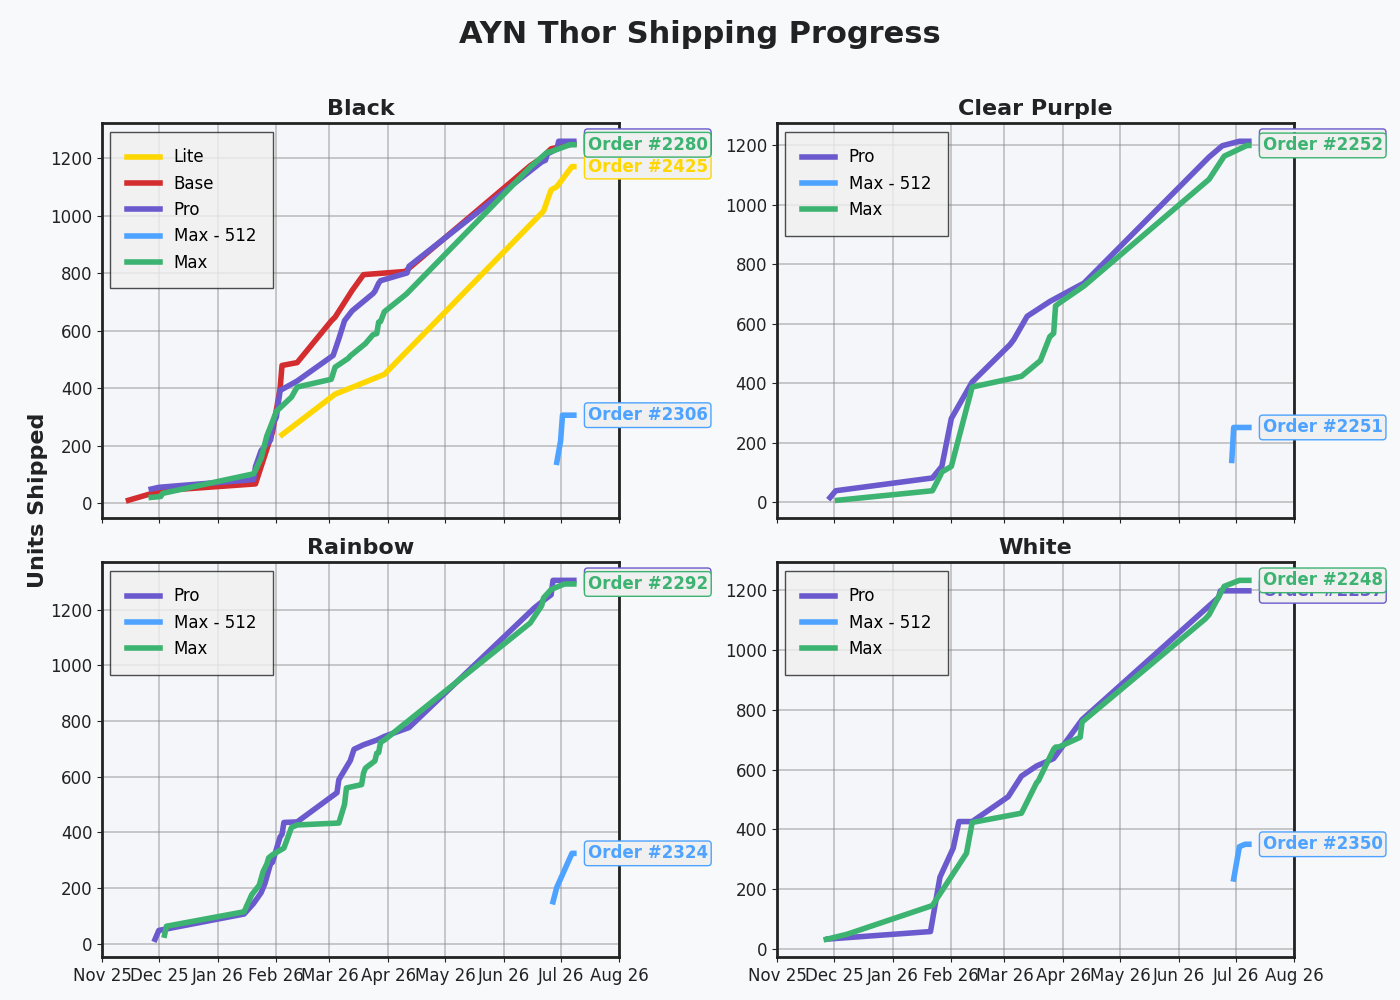
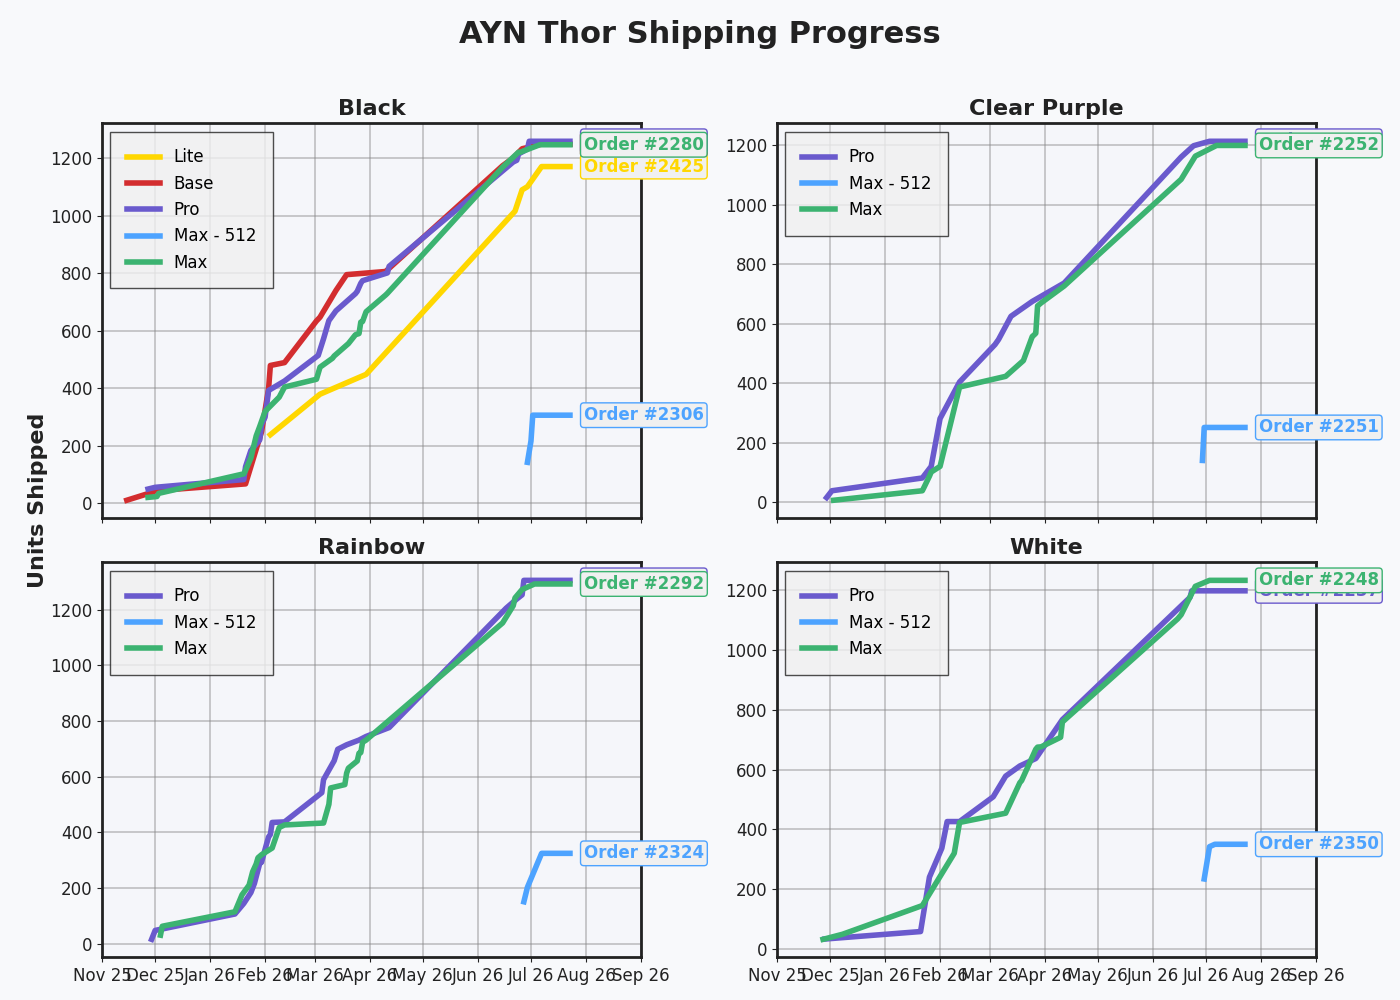
updating model to be less laggy

diff --git a/analysis.py b/analysis.py
@@ -136,6 +136,7 @@ def get_df(add_current_date_point=False):
     df["units_shipped"] = pd.to_numeric(df["units_shipped"], errors="coerce")
     df["color"] = df["color"].astype(str).str.strip().str.lower()
     df = df.sort_values(["make", "model", "color", "date"])
+    df["is_synthetic"] = False
     df["prev_end"] = df.groupby(["make", "model", "color"])["end"].shift(1)
     df["calc_units"] = df["end"] - df["prev_end"]
     df["calc_units"] = df["calc_units"].fillna(df["units_shipped"])
@@ -164,7 +165,8 @@ def get_df(add_current_date_point=False):
                 "units_shipped": 0,
                 "prev_end": row["max_end"],
                 "calc_units": 0,
-                "cumulative": row["last_cumulative"]
+                "cumulative": row["last_cumulative"],
+                "is_synthetic": True
             })
         if synthetic_rows:
             df = pd.concat([df, pd.DataFrame(synthetic_rows)], ignore_index=True)
@@ -282,12 +284,15 @@ def plot_black_models(output_path=None):
         if model_df.empty:
             ax.set_visible(False)
             continue
+        fit_df = model_df[~model_df["is_synthetic"]].copy()
+        if fit_df.empty:
+            fit_df = model_df.copy()
         ax.plot(
             model_df["date"],
             model_df["end"],
             color=MODEL_COLORS[model],
             linewidth=4,
-            zorder=3,
+            zorder=2,
             label="Shipped"
         )
         make = model_df["make"].iloc[0] if not model_df.empty else "Thor"
@@ -297,7 +302,7 @@ def plot_black_models(output_path=None):
         r2_str = ""
         slope_str = ""
         if model == "Max - 512":
-            latest = model_df.iloc[-1]
+            latest = fit_df.iloc[-1]
             dates, preds, coef = get_512_prediction_line(
                 models, make, "black", int(latest["end"]), latest["date"], trendline_max_date
             )
@@ -306,11 +311,11 @@ def plot_black_models(output_path=None):
                     dates, preds,
                     color=MODEL_COLORS[model],
                     linestyle=":", linewidth=2,
-                    label="Projected", zorder=2, alpha=0.8,
+                    label="Projected", zorder=4, alpha=0.95,
                 )
                 slope_str = f"{coef:.1f} units/day"
                 intercept_512 = int(latest["end"]) - coef * pd.Timestamp(latest["date"]).toordinal()
-                r2 = calculate_line_r2(model_df, coef, intercept_512)
+                r2 = calculate_line_r2(fit_df, coef, intercept_512)
                 if r2 is not None:
                     r2_str = f"$R^2$ = {r2:.3f}"
             else:
@@ -324,7 +329,7 @@ def plot_black_models(output_path=None):
                     dates, preds,
                     color=MODEL_COLORS[model],
                     linestyle=":", linewidth=2,
-                    label="Projected", zorder=2, alpha=0.8,
+                    label="Projected", zorder=4, alpha=0.95,
                 )
                 reg_key_norm = (normalize(make), normalize(model), normalize("black"))
                 normalized_to_actual = {
@@ -336,7 +341,7 @@ def plot_black_models(output_path=None):
                     reg = models[actual_key]
                     coef = reg.coef_[0]
                     slope_str = f"{coef:.1f} units/day"
-                    filtered_df = model_df[model_df["date"] >= pd.Timestamp("2026-01-01")].copy()
+                    filtered_df = fit_df[fit_df["date"] >= pd.Timestamp("2026-01-01")].copy()
                     if not filtered_df.empty:
                         filtered_df["date_ordinal"] = filtered_df["date"].map(pd.Timestamp.toordinal)
                         filtered_df = filtered_df.dropna(subset=["date_ordinal", "end"])
@@ -391,6 +396,9 @@ def plot_color_models(output_path=None):
             if model_df.empty:
                 ax.set_visible(False)
                 continue
+            fit_df = model_df[~model_df["is_synthetic"]].copy()
+            if fit_df.empty:
+                fit_df = model_df.copy()
             # Calculate x-axis limits, skipping the first month
             if not model_df.empty:
                 min_date = model_df["date"].min()
@@ -404,7 +412,7 @@ def plot_color_models(output_path=None):
                 model_df["end"],
                 color=MODEL_COLORS[model],
                 linewidth=4,
-                zorder=3,
+                zorder=2,
                 label="Shipped"
             )
             make = model_df["make"].iloc[0] if not model_df.empty else "Thor"
@@ -414,7 +422,7 @@ def plot_color_models(output_path=None):
             r2_str = ""
             slope_str = ""
             if model == "Max - 512":
-                latest = model_df.iloc[-1]
+                latest = fit_df.iloc[-1]
                 dates, preds, coef = get_512_prediction_line(
                     models, make, color, int(latest["end"]), latest["date"], trendline_max_date
                 )
@@ -423,11 +431,11 @@ def plot_color_models(output_path=None):
                         dates, preds,
                         color=MODEL_COLORS[model],
                         linestyle=":", linewidth=2,
-                        label="Projected", zorder=2, alpha=0.8,
+                        label="Projected", zorder=4, alpha=0.95,
                     )
                     slope_str = f"{coef:.1f} units/day"
                     intercept_512 = int(latest["end"]) - coef * pd.Timestamp(latest["date"]).toordinal()
-                    r2 = calculate_line_r2(model_df, coef, intercept_512)
+                    r2 = calculate_line_r2(fit_df, coef, intercept_512)
                     if r2 is not None:
                         r2_str = f"$R^2$ = {r2:.3f}"
                 else:
@@ -441,7 +449,7 @@ def plot_color_models(output_path=None):
                         dates, preds,
                         color=MODEL_COLORS[model],
                         linestyle=":", linewidth=2,
-                        label="Projected", zorder=2, alpha=0.8,
+                        label="Projected", zorder=4, alpha=0.95,
                     )
                     reg_key_norm = (normalize(make), normalize(model), normalize(color))
                     normalized_to_actual = {
@@ -453,7 +461,7 @@ def plot_color_models(output_path=None):
                         reg = models[actual_key]
                         coef = reg.coef_[0]
                         slope_str = f"{coef:.1f} units/day"
-                        filtered_df2 = model_df[model_df["date"] >= pd.Timestamp("2026-01-01")].copy()
+                        filtered_df2 = fit_df[fit_df["date"] >= pd.Timestamp("2026-01-01")].copy()
                         if not filtered_df2.empty:
                             filtered_df2["date_ordinal"] = filtered_df2["date"].map(pd.Timestamp.toordinal)
                             filtered_df2 = filtered_df2.dropna(subset=["date_ordinal", "end"])

diff --git a/train.py b/train.py
@@ -5,6 +5,7 @@ from pathlib import Path
 from datetime import datetime
 
 import joblib
+import numpy as np
 import pandas as pd
 from sklearn.linear_model import LinearRegression
 
@@ -59,7 +60,7 @@ def load_raw_data(db_path: str, table_name: str) -> pd.DataFrame:
     if df["date"].isna().any():
         bad = df[df["date"].isna()].head()
         raise ValueError(f"Some dates could not be parsed:\n{bad}")
-    cutoff_date = pd.Timestamp.now().normalize() - pd.DateOffset(months=3)
+    cutoff_date = pd.Timestamp.now().normalize() - pd.DateOffset(months=5)
     df = df[df["date"] >= cutoff_date].copy()
 
 
@@ -101,9 +102,11 @@ def expand_to_daily_max_shipped(df: pd.DataFrame) -> pd.DataFrame:
         # For each shipment, set the max shipped for that date
         shipments = group_df[["date", "end_order"]].copy()
         shipments = shipments.groupby("date")["end_order"].max().reset_index()
+        shipments["is_shipment_day"] = True
         # Merge and forward fill
         daily = daily.merge(shipments, on="date", how="left")
         daily["end_order"] = daily["end_order"].ffill().fillna(0).astype(int)
+        daily["is_shipment_day"] = daily["is_shipment_day"].notna()
         # Ensure group is always a tuple
         if not isinstance(group, tuple):
             group = (group,)
@@ -140,9 +143,16 @@ def train_models(expanded_df: pd.DataFrame, raw_df: pd.DataFrame) -> dict:
         min_shipped = int(group["max_shipped"].min())
         max_shipped = int(group["max_shipped"].max())
 
+        # Weight recent days higher and actual-shipment days much higher, so the
+        # model adapts faster to trend changes while still accounting for pauses.
+        days_from_latest = (group["date"].max() - group["date"]).dt.days.astype(float)
+        recency_weight = 0.3 + 0.7 * np.exp(-days_from_latest / 21.0)
+        movement_weight = np.where(group["is_shipment_day"], 4.0, 0.35)
+        sample_weight = recency_weight * movement_weight
+
         model = LinearRegression()
-        model_type = "linear_regression"
-        model.fit(X, y)
+        model_type = "linear_regression_weighted_recent"
+        model.fit(X, y, sample_weight=sample_weight)
 
         models[key] = model
         latest_ship_date = latest_ship_date_map.get(key, pd.NaT)
@@ -193,7 +203,7 @@ def train_models(expanded_df: pd.DataFrame, raw_df: pd.DataFrame) -> dict:
         "models": models,
         "training_meta": training_meta,
         "trained_at": datetime.now().astimezone().isoformat(),
-        "model_version": "v2",
+        "model_version": "v3",
         "feature_columns": ["date_ordinal"],
     }
 

diff --git a/run_local.py b/run_local.py
@@ -172,6 +172,14 @@ def main() -> int:
     if not UI_DIR.exists() or not (UI_DIR / "index.html").exists():
         raise FileNotFoundError(f"Missing UI file: {UI_DIR / 'index.html'}")
 
+    prereq_cmds = [
+        [sys.executable, "train.py"],
+        [sys.executable, "analysis.py"],
+    ]
+    for cmd in prereq_cmds:
+        print(f"Running prerequisite: {' '.join(cmd)}")
+        subprocess.run(cmd, cwd=str(PROJECT_ROOT), check=True)
+
     backend_url = f"http://{args.host}:{args.backend_port}"
 
     backend_cmd = [
@@ -220,4 +228,3 @@ def main() -> int:
 
 if __name__ == "__main__":
     raise SystemExit(main())
-
